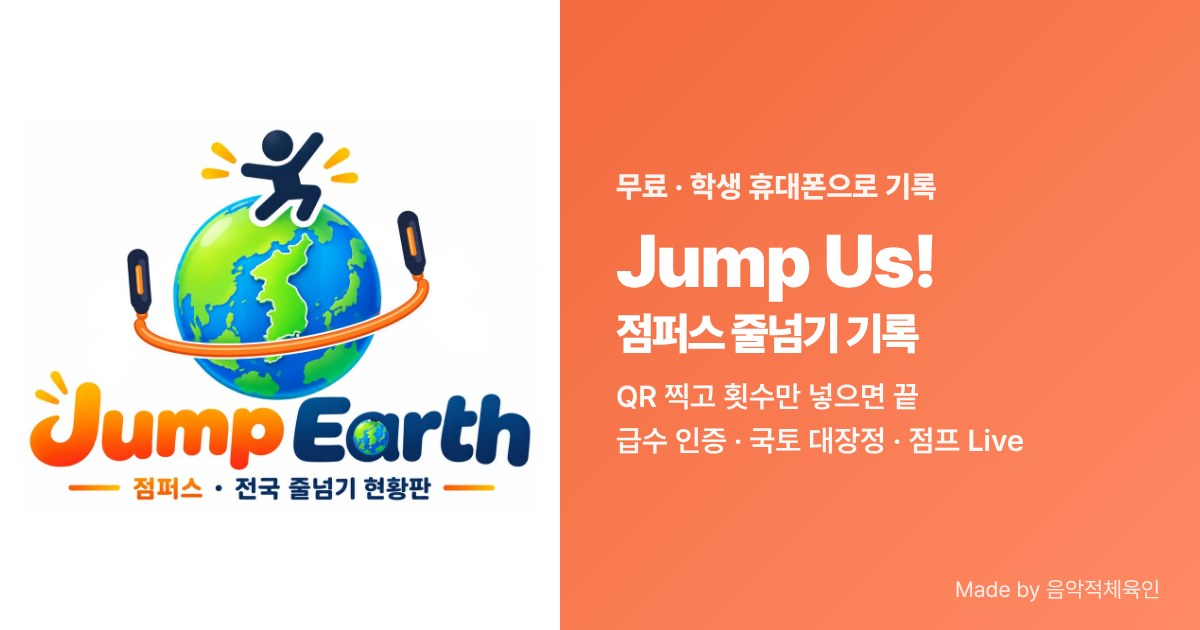
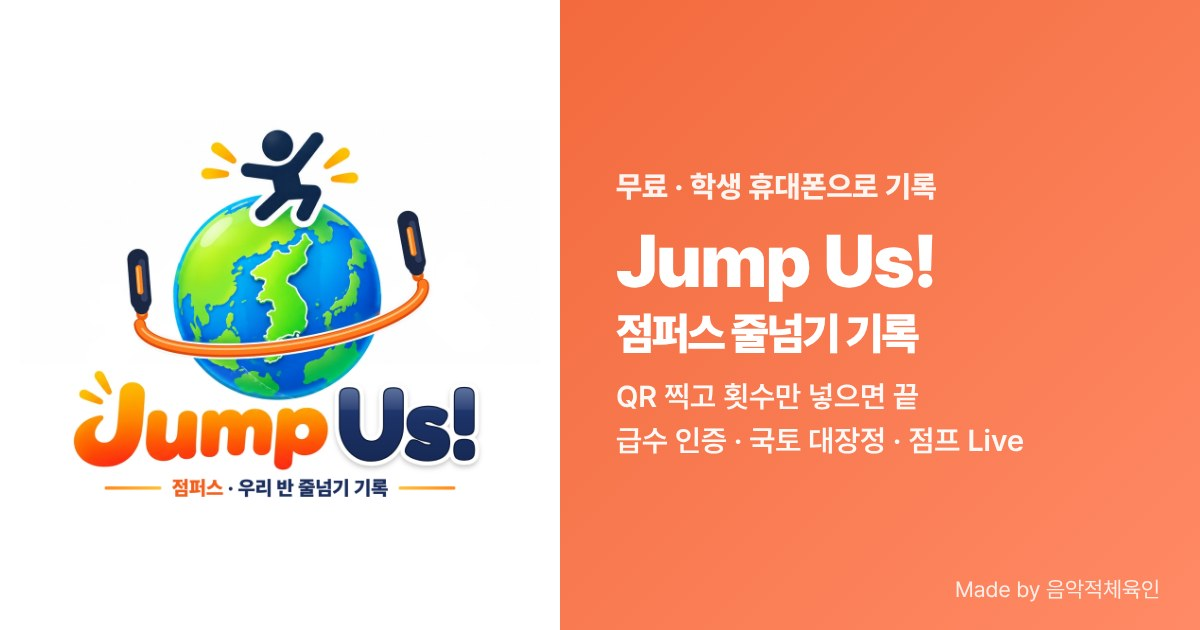
썸네일: Jump Us! · Jumpers! 로고(원래 Jump 글자 + 맞춘 뒷글자), 클럽 리그 로고 · 로고 그림을 share/brand 에
Claude-Session: https://claude.ai/code/session_01AgCmpLpbzLfpx6hsfkwK9C

Changed region(s): [[0.0, 0.573, 0.4625, 0.8143]]

diff --git a/club/board.html b/club/board.html
@@ -10,7 +10,7 @@
 <meta property="og:title" content="Jump Earth! 클럽 리그 · 전국 클럽 줄넘기 현황판">
 <meta property="og:description" content="전국 클럽이 함께 뛰는 한 달 줄넘기 순위 — 클럽 · 학생 · 며칠 연속 · 한 번에 최고 연속">
 <meta property="og:url" content="https://musicalpe.github.io/jumprope/club/board.html">
-<meta property="og:image" content="https://musicalpe.github.io/jumprope/img/og-club-board.jpg?v=2">
+<meta property="og:image" content="https://musicalpe.github.io/jumprope/img/og-club-board.jpg?v=3">
 <meta property="og:image:width" content="1200">
 <meta property="og:image:height" content="630">
 <meta name="twitter:card" content="summary_large_image">

diff --git a/club/index.html b/club/index.html
@@ -10,7 +10,7 @@
 <meta property="og:title" content="Jump Us! 점퍼스 클럽 · 스포츠클럽·도장 줄넘기 기록">
 <meta property="og:description" content="학생 휴대폰으로 QR 찍고 횟수만 넣으면 끝. 급수 인증 · 국토 대장정 · 점프 Live · 전국 현황판">
 <meta property="og:url" content="https://musicalpe.github.io/jumprope/club/">
-<meta property="og:image" content="https://musicalpe.github.io/jumprope/img/og-club-app.jpg?v=2">
+<meta property="og:image" content="https://musicalpe.github.io/jumprope/img/og-club-app.jpg?v=3">
 <meta property="og:image:width" content="1200">
 <meta property="og:image:height" content="630">
 <meta name="twitter:card" content="summary_large_image">

diff --git a/board.html b/board.html
@@ -10,7 +10,7 @@
 <meta property="og:title" content="Jump Earth! 점퍼스 · 전국 줄넘기 현황판">
 <meta property="og:description" content="전국 학교가 함께 뛰는 한 달 줄넘기 순위 — 학교 · 학생 · 며칠 연속 · 한 번에 최고 연속">
 <meta property="og:url" content="https://musicalpe.github.io/jumprope/board.html">
-<meta property="og:image" content="https://musicalpe.github.io/jumprope/img/og-board.jpg?v=2">
+<meta property="og:image" content="https://musicalpe.github.io/jumprope/img/og-board.jpg?v=3">
 <meta property="og:image:width" content="1200">
 <meta property="og:image:height" content="630">
 <meta name="twitter:card" content="summary_large_image">

diff --git a/beta/index.html b/beta/index.html
@@ -10,7 +10,7 @@
 <meta property="og:title" content="Jump Us! 점퍼스 · 줄넘기 기록">
 <meta property="og:description" content="학생 휴대폰으로 QR 찍고 횟수만 넣으면 끝. 급수 인증 · 국토 대장정 · 점프 Live · 전국 현황판">
 <meta property="og:url" content="https://musicalpe.github.io/jumprope/">
-<meta property="og:image" content="https://musicalpe.github.io/jumprope/img/og-app.jpg?v=2">
+<meta property="og:image" content="https://musicalpe.github.io/jumprope/img/og-app.jpg?v=3">
 <meta property="og:image:width" content="1200">
 <meta property="og:image:height" content="630">
 <meta name="twitter:card" content="summary_large_image">

diff --git a/index.html b/index.html
@@ -10,7 +10,7 @@
 <meta property="og:title" content="Jump Us! 점퍼스 · 줄넘기 기록">
 <meta property="og:description" content="학생 휴대폰으로 QR 찍고 횟수만 넣으면 끝. 급수 인증 · 국토 대장정 · 점프 Live · 전국 현황판">
 <meta property="og:url" content="https://musicalpe.github.io/jumprope/">
-<meta property="og:image" content="https://musicalpe.github.io/jumprope/img/og-app.jpg?v=2">
+<meta property="og:image" content="https://musicalpe.github.io/jumprope/img/og-app.jpg?v=3">
 <meta property="og:image:width" content="1200">
 <meta property="og:image:height" content="630">
 <meta name="twitter:card" content="summary_large_image">

diff --git a/club/hall.html b/club/hall.html
@@ -10,7 +10,7 @@
 <meta property="og:title" content="Jumpers! 클럽 리그 · 기록실">
 <meta property="og:description" content="지난 달 1~3등 클럽과 학생 — 최근 12개월 기록">
 <meta property="og:url" content="https://musicalpe.github.io/jumprope/club/hall.html">
-<meta property="og:image" content="https://musicalpe.github.io/jumprope/img/og-club-hall.jpg?v=2">
+<meta property="og:image" content="https://musicalpe.github.io/jumprope/img/og-club-hall.jpg?v=3">
 <meta property="og:image:width" content="1200">
 <meta property="og:image:height" content="630">
 <meta name="twitter:card" content="summary_large_image">

diff --git a/hall.html b/hall.html
@@ -10,7 +10,7 @@
 <meta property="og:title" content="Jumpers! 점퍼스 · 기록실">
 <meta property="og:description" content="지난 달 1~3등 학교와 학생 — 최근 12개월 기록">
 <meta property="og:url" content="https://musicalpe.github.io/jumprope/hall.html">
-<meta property="og:image" content="https://musicalpe.github.io/jumprope/img/og-hall.jpg?v=2">
+<meta property="og:image" content="https://musicalpe.github.io/jumprope/img/og-hall.jpg?v=3">
 <meta property="og:image:width" content="1200">
 <meta property="og:image:height" content="630">
 <meta name="twitter:card" content="summary_large_image">
